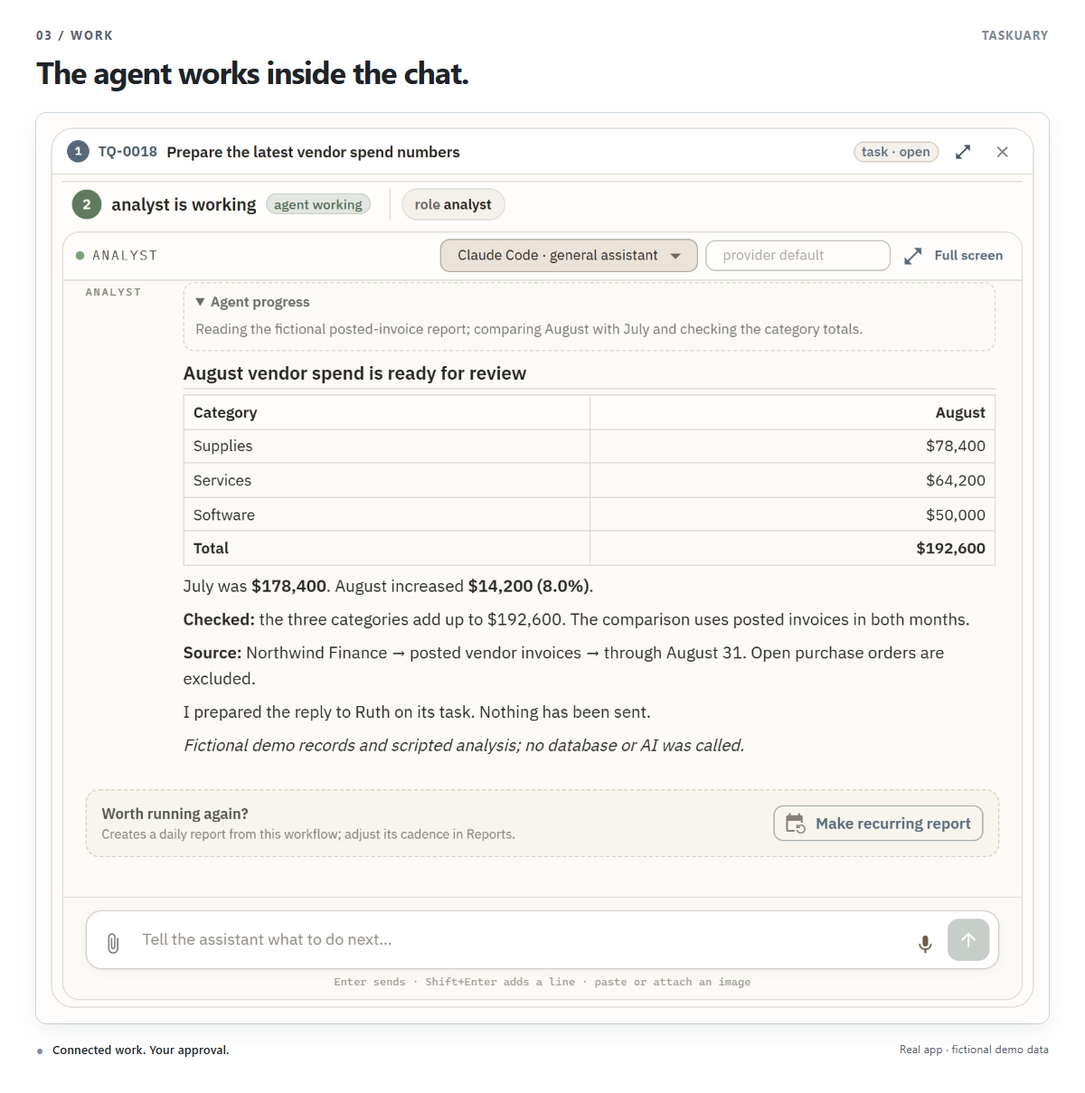
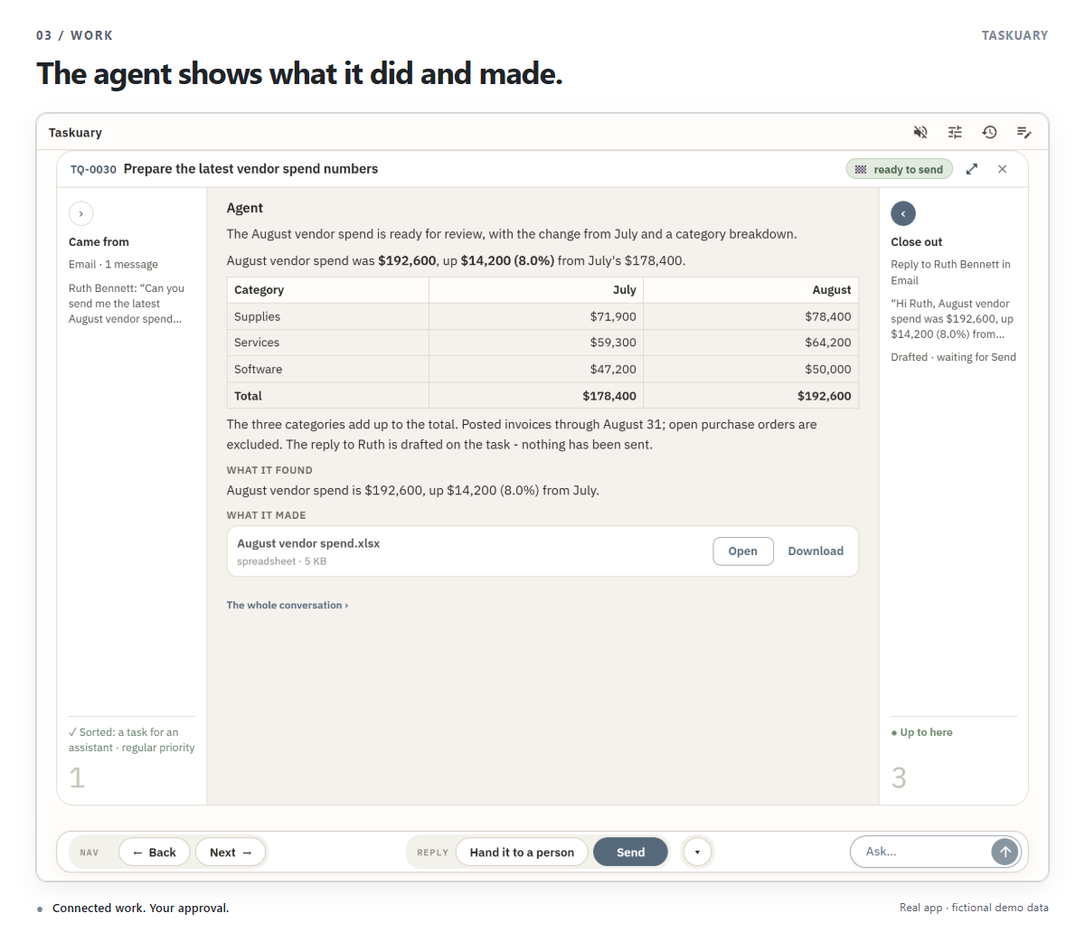
The README's pictures show the task view as it is now: three sections, the Result, Close out, the chat window
The task pictures still showed the old card - one column of steps, Approve & send, Regenerate with AI,
"Where this came from", the agent's chat as the result. They were shot from the guided Vite demo, whose
task stops at "agent waiting on you" and never reaches a finished agent's Result.

- capture-readme-app.mjs shoots 02-05 on the browser harness (the real backend on a scratch demo home,
  outbound sockets blocked). readme_seed.py writes the vendor-spend request into that home, then the
  agent's finished run: its report, the workbook it made, the reply drafted. 02 is the task in its three
  sections with Came from open, 03 the Agent's Result (summary, answer, what it found, What it made),
  04 Close out on the drafted reply with Send, 05 the chat window open over the row.
- Three new key-feature pictures from the same run: 12 an FYI batch folded, 13 a report in a task's three
  sections, 14 the dashboard; both READMEs get a section for them. The FYI picture is the second batch -
  the first names a vendor company that reads like a real one.
- capture-readme.mjs keeps 01, 06-09 and 11, re-shot: the Assistant is "Chat" in the nav now, LEARNED.md
  opens in Settings > Docs (cropped from its title to the words' end), and card() waits for its words
  again after each resize (the Hub reloads behind a spinner). 01's crop drops the header's edge.
- Captions and alt text name today's buttons; ?v=cards becomes ?v=sections on every picture.

diff --git a/website/readme_seed.py b/website/readme_seed.py
@@ -1,0 +1,52 @@
+"""The README's one request, written into a browser harness's demo home (capture-readme-app.mjs): Ruth's ask for the August vendor spend,
+then the analyst's finished run on it - its report, the workbook it left and the reply drafted for the owner. Invented people only.
+python website/readme_seed.py ask            -> prints the new task's id
+python website/readme_seed.py done <task id> -> the agent finished, the workbook made, the reply drafted"""
+import sys
+from pathlib import Path
+
+sys.path.insert(0, str(Path(__file__).resolve().parents[1]))
+from taskuary import config, demo, outputs, terminal
+from taskuary.store import SQLiteStore
+from taskuary.testing import Factory
+
+ASK = ('Can you send me the latest August vendor spend numbers before the operations review? '
+       'Please include the total, the change from July, and a breakdown by category.')
+ROWS = [('Supplies', 78400, 71900), ('Services', 64200, 59300), ('Software', 50000, 47200)]
+ANSWER = ('August vendor spend was **$192,600**, up **$14,200 (8.0%)** from July\'s $178,400.\n\n'
+          '| Category | July | August |\n|---|---:|---:|\n'
+          + ''.join(f'| {c} | ${j:,} | ${a:,} |\n' for c, a, j in ROWS)
+          + '| **Total** | **$178,400** | **$192,600** |\n\n'
+          'The three categories add up to the total. Posted invoices through August 31; open purchase orders are excluded. '
+          'The reply to Ruth is drafted on the task - nothing has been sent.')
+DRAFT = ('Hi Ruth,\n\nAugust vendor spend was $192,600, up $14,200 (8.0%) from July\'s $178,400.\n\n'
+         + ''.join(f'- {c}: ${a:,}\n' for c, a, _ in ROWS)
+         + '\nThe three categories reconcile to the total. These are posted invoices through August 31; open purchase orders are excluded.'
+           '\n\nAlex')
+
+s = SQLiteStore(str(config.home() / 'taskuary.db'))
+f = Factory(s); f.actor = 'triage'
+ruth = demo.PEOPLE[3]
+if sys.argv[1] == 'ask':
+    tid = f.task(title='Prepare the latest vendor spend numbers', status='open', kind='general', source='email',
+                 Summary='Ruth needs the August vendor spend before the 11:30 operations review: the total, the change from July and a category breakdown.')
+    mid = f.message(task_id=tid, subject='Latest vendor spend numbers?', body=ASK, from_name=ruth[0], from_email=ruth[1],
+                    sent_at=f.ago(minutes=25), conversation_id='email:readme-vendor-spend')
+    f.route(mid, tid, 'create', 'a request for current internal numbers: an agent can prepare the analysis and draft the reply for review')
+    print(tid)
+else:
+    tid = int(sys.argv[2])
+    s._exec("UPDATE task SET Status='in_progress', Assignee='agent:general', Tags=? WHERE TaskId=?", (terminal.SAVED, tid))
+    s.add_transcript(tid, f'readme-{tid}', 'Reading the posted-invoice report for July and August.\nChecking the category totals against the ledger.',
+                     agent='general', cwd=str(config.home()), brain='claude')
+    s.add_comment(tid, 'general', 'agent', 'AGENT REPORT\nDetermination: August vendor spend is $192,600, up $14,200 (8.0%) from July.\n'
+                  'Actions: Read the posted vendor invoices for July and August; totalled them by category; checked the categories add up.\n'
+                  'Summary: The August vendor spend is ready for review, with the change from July and a category breakdown.\n\n'
+                  'LAST MESSAGE\n' + ANSWER)
+    out = outputs.folder(tid); out.mkdir(parents=True, exist_ok=True)
+    from openpyxl import Workbook
+    wb = Workbook(); ws = wb.active; ws.title = 'August'
+    for r in (['Category', 'July', 'August'], *[[c, j, a] for c, a, j in ROWS], ['Total', 178400, 192600]): ws.append(r)
+    wb.save(out / 'August vendor spend.xlsx')
+    mid = s.list_messages(tid)[0]['MessageId']
+    f.review(tid, mid, draft=DRAFT, reason='needs a reply: Ruth asks for the numbers')

diff --git a/README.md b/README.md
@@ -42,39 +42,43 @@ one card: what changed since last night, what was learned, the morning digest, y
 what waits in each section - so you never open each system in turn. A goal is a task whose steps
 are tasks: triage opens one for an open-ended ask, and files later mail under the step it serves.
 
-![The work rail sorting today's items into Urgent, On you, Agents working, Reports, Advisor ideas, and FYI, beside the opening card: agents that finished and a report that ran since last night, the memory and morning digest lines, today's meetings, and what waits in each section.](https://raw.githubusercontent.com/ldbumble/taskuary/master/docs/readme/01-timeline-sources-and-times.png?v=cards)
+![The work rail sorting today's items into Tasks, Reports, and FYI, beside the opening card: agents that finished and a report that ran since last night, the memory and morning digest lines, today's meetings, and what waits in each section.](https://raw.githubusercontent.com/ldbumble/taskuary/master/docs/readme/01-timeline-sources-and-times.png?v=sections)
 
 ### 2. Let the Assistant walk you through it
 
 Choose **Walk me through my tasks**. The Assistant puts one item on the table at a time, as the
-same task card you would open yourself, with the next actions under it: **Next**, **Write reply**,
-**Send to agent**, **Mark done**. The buttons always do the same thing; the chat line is for everything else,
-and the Assistant already has the message, the thread, and your past decisions to answer from.
+same task card you would open yourself, with the next actions in one row under it: **Next**, **Reply**,
+**Hand it to a person**, and the rest under ▾. The buttons always do the same thing; for everything else,
+ask - the chat opens as a window over the row, and the Assistant already has the message, the thread,
+and your past decisions to answer from.
 
-![The Assistant bringing Ruth's request into the chat as task TQ-0018 - what needs doing, its agent and close-out steps - with Next, Write reply, Send to agent, and Mark done under it.](https://raw.githubusercontent.com/ldbumble/taskuary/master/docs/readme/05-assistant.png?v=cards)
+![Ruth's request on the table with the chat window open over the action row: asked what is on the list, the Assistant answers beside the task without moving it.](https://raw.githubusercontent.com/ldbumble/taskuary/master/docs/readme/05-assistant.png?v=sections)
 
 Assistant look-ups clamp result limits to a safe range and use their default when a limit is invalid.
 
 ### 3. Every request becomes a task with its whole story
 
-Open any item to see how it got here: the message, what triage decided and why, which agent
-has it, and where the reply stands.
+Every task reads left to right in three sections: **Came from** (the message, what triage made of it
+and why, the ask), **Agent**, and **Close out**. The section the task is up to opens; the other two fold
+to slim columns beside it that still say where they stand.
 
-![Ruth's request on its task: the message, the triage decision, the agent, and the reply still to write.](https://raw.githubusercontent.com/ldbumble/taskuary/master/docs/readme/02-task.png?v=cards)
+![Ruth's request as a task in three sections: Came from open - the email, what triage made of it, the ask - with Agent (not started) and Close out (not drafted yet) folded beside it.](https://raw.githubusercontent.com/ldbumble/taskuary/master/docs/readme/02-task.png?v=sections)
 
-### 4. The agent works inside the chat
+### 4. The agent shows what it did
 
-**Send to agent** and it works in the same card. Here the analyst prepares the numbers, checks
-that the categories add up, names its source, and drafts the reply. Nothing is sent.
+Open the Agent section and choose **Send to agent**; the agent works there. When it finishes, that section rests on its
+Result: what it did, its answer, what it found, and **What it made** - each file with Open and Download.
+The whole conversation is one link under it. Here the agent prepares the numbers, checks that the
+categories add up, saves a workbook, and drafts the reply. Nothing is sent.
 
-![The analyst's finished vendor spend analysis inside the chat, with category totals, the change from July, and its source.](https://raw.githubusercontent.com/ldbumble/taskuary/master/docs/readme/03-agent.png?v=cards)
+![The agent's Result on Ruth's task: a one-line summary, the July and August totals by category, what it found, and the workbook it made with Open and Download.](https://raw.githubusercontent.com/ldbumble/taskuary/master/docs/readme/03-agent.png?v=sections)
 
 ### 5. The last word is yours
 
-The prepared reply waits on the task, beside the request that started it. Read it, edit it,
-and choose **Approve & send** when it is ready.
+The prepared reply waits in **Close out**, addressed to Ruth, with Came from and the agent's Result
+folded beside it. Read it, edit it, and choose **Send** when it is ready - or Redraft.
 
-![The drafted reply to Ruth waiting on its task, with Approve & send, Mark done, and Regenerate with AI.](https://raw.githubusercontent.com/ldbumble/taskuary/master/docs/readme/04-review.png?v=cards)
+![Close out open on the reply drafted to Ruth, with To, Cc, the editable draft, Send and Redraft, beside the folded Came from and Agent sections.](https://raw.githubusercontent.com/ldbumble/taskuary/master/docs/readme/04-review.png?v=sections)
 
 ### 6. Start your day before it gets busy
 
@@ -82,9 +86,22 @@ Each morning the Assistant opens on what changed since last night, what it learn
 and what waits in each section - and the morning digest unfolds in place, so it is never stale by the
 time you reach it. Ruth's request has a clear deadline: the 11:30 operations review.
 
-![An animated close-up of the morning: the opening card, then its morning digest unfolding - who wants what, what is in flight, and today's meetings.](https://raw.githubusercontent.com/ldbumble/taskuary/master/docs/readme/06-morning.gif?v=cards)
+![An animated close-up of the morning: the opening card, then its morning digest unfolding - who wants what, what is in flight, and today's meetings.](https://raw.githubusercontent.com/ldbumble/taskuary/master/docs/readme/06-morning.gif?v=sections)
 
 ## Key features
+
+### Reports, dashboards, and FYI open like work
+
+A report opens in the same three sections as a task, the report itself in the middle - its chart,
+its table, the files it attached - with the same row under it. Dashboards land beside the reports.
+What needs nothing from you is batched: one FYI card holds every message of the batch, each folded to
+who, where, and its line, and **All read, next** moves on.
+
+![A report in a task's three sections: Headcount by site, nightly, with its bar chart, table, and attached files, and the row of actions under it.](https://raw.githubusercontent.com/ldbumble/taskuary/master/docs/readme/13-report.png?v=sections)
+
+![The Taskuary at a glance dashboard: what came in, new tasks, open now, reply time, how far items got, and agent sessions.](https://raw.githubusercontent.com/ldbumble/taskuary/master/docs/readme/14-dashboard.png?v=sections)
+
+![An FYI batch: six messages that need nothing, each folded to its sender, channel, subject, and first line, with All read, next under them.](https://raw.githubusercontent.com/ldbumble/taskuary/master/docs/readme/12-fyi.png?v=sections)
 
 ### Use your coding CLI
 
@@ -96,21 +113,21 @@ For Qwen Code, see the [setup and compatibility guide](docs/qwen-code.md).
 Use DeepSeek, GLM, or MiniMax through OpenCode, or connect Moonshot's Kimi Code:
 [setup steps and supported roles](docs/chinese-coding-clis.md).
 
-![AI CLI connections for Claude, Qwen, OpenCode with DeepSeek, and Kimi Code.](https://raw.githubusercontent.com/ldbumble/taskuary/master/docs/readme/07-coding-clis-chinese.png?v=cards)
+![AI CLI connections for Claude, Qwen, OpenCode with DeepSeek, and Kimi Code.](https://raw.githubusercontent.com/ldbumble/taskuary/master/docs/readme/07-coding-clis-chinese.png?v=sections)
 
 ### A shared Hub for what agents learn
 
 Keep discoveries, decisions, and useful warnings by topic. Agents can find what earlier work
 uncovered, discuss it, and correct it instead of starting from scratch.
 
-![A discovery in the Hub, with the discussion two agents had under it.](https://raw.githubusercontent.com/ldbumble/taskuary/master/docs/readme/08-hub.png?v=cards)
+![A discovery in the Hub, with the discussion two agents had under it.](https://raw.githubusercontent.com/ldbumble/taskuary/master/docs/readme/08-hub.png?v=sections)
 
 ### Agents leave notes for each other
 
 The Board's **Live handoffs** show what agents are working on, what is blocked, and what is ready.
 An agent leaves a note; the next one reads it before picking up the work.
 
-![Live handoff notes on the agent wall, showing progress, shared context, and who has read each note.](https://raw.githubusercontent.com/ldbumble/taskuary/master/docs/readme/09-handoffs.png?v=cards)
+![Live handoff notes on the agent wall, showing progress, shared context, and who has read each note.](https://raw.githubusercontent.com/ldbumble/taskuary/master/docs/readme/09-handoffs.png?v=sections)
 
 ### Memory that learns how you work
 
@@ -133,7 +150,7 @@ answer, whether a chase is needed, who on copy moves them - and a thread gone qu
 person's own day is *slipped*, on your rail under Tasks, with Chase, Let it go, They answered elsewhere
 and Remind me under it. See [The Advisor](https://taskuary.com/docs/advisor).
 
-![LEARNED.md open in the document editor, with evidence-backed preferences, hypotheses still being tested, and proposed rules awaiting the owner.](https://raw.githubusercontent.com/ldbumble/taskuary/master/docs/readme/11-learned-memory.png?v=cards)
+![LEARNED.md open in the document editor, with evidence-backed preferences, hypotheses still being tested, and proposed rules awaiting the owner.](https://raw.githubusercontent.com/ldbumble/taskuary/master/docs/readme/11-learned-memory.png?v=sections)
 
 <details>
 <summary>Technical details: how LEARNED.md becomes memory</summary>

diff --git a/README.zh-CN.md b/README.zh-CN.md
@@ -41,46 +41,59 @@ Qwen Code 使用哪个云端或本地模型，由你配置。见[使用 Qwen Cod
 ### 1. 所有工作汇集到一处
 
 邮件、聊天、工单、提醒和报表都进入同一条工作栏，并按需要处理的方式分组：
-**Urgent**、**Tasks**（所有未完成的任务，代理正在处理的那一项图标上有旋转的圆环）、**For later**、**Reports**、Advisor 的建议，以及 **FYI**。旁边是一天的开场卡片：昨晚以来的变化、
+**Tasks**（所有未完成的任务，代理正在处理的那一项图标上有旋转的圆环）、**For later**、**Reports**、Advisor 的建议，以及 **FYI**。旁边是一天的开场卡片：昨晚以来的变化、
 学到的东西、早间摘要、今天的会议，以及每个分组里在等你的事，不用逐个打开各个系统。
 
-![工作栏把今天的事项分组，旁边是开场卡片：昨晚以来完成的代理和运行的报表、记忆与早间摘要、今天的会议，以及每个分组里在等你的事。](https://raw.githubusercontent.com/ldbumble/taskuary/master/docs/readme/01-timeline-sources-and-times.png?v=cards)
+![工作栏把今天的事项分组，旁边是开场卡片：昨晚以来完成的代理和运行的报表、记忆与早间摘要、今天的会议，以及每个分组里在等你的事。](https://raw.githubusercontent.com/ldbumble/taskuary/master/docs/readme/01-timeline-sources-and-times.png?v=sections)
 
 ### 2. 让助手带你逐项处理
 
 选择 **Walk me through my tasks**。助手每次把一件事带到对话里，形式就是你自己打开时看到的同一张任务卡片，
-下面是接下来的操作：**Next**、**Write reply**、**Send to agent**、**Mark done**。按钮每次都做同样的事；
-其他需求直接在对话框里说，助手已经掌握这条消息、整个线程以及你过去的决定。
+下面一行是接下来的操作：**Next**、**Reply**、**Hand it to a person**，其余在 ▾ 里。按钮每次都做同样的事；
+其他需求直接提问，对话会作为一个窗口浮在操作行上方，助手已经掌握这条消息、整个线程以及你过去的决定。
 
-![助手把 Ruth 的请求作为任务 TQ-0018 带入对话，显示要做的事、智能体和收尾步骤，下面是 Next、Write reply、Send to agent 和 Mark done。](https://raw.githubusercontent.com/ldbumble/taskuary/master/docs/readme/05-assistant.png?v=cards)
+![Ruth 的请求放在桌面上，对话窗口浮在操作行上方：问到今天的清单，助手在任务旁边回答，任务本身不动。](https://raw.githubusercontent.com/ldbumble/taskuary/master/docs/readme/05-assistant.png?v=sections)
 
 ### 3. 每个请求都成为带有完整经过的任务
 
-打开任何事项，都能看到它的来龙去脉：原始消息、分诊的结论和原因、由哪个智能体处理，以及回复进行到哪一步。
+每个任务从左到右分为三部分：**Came from**（原始消息、分诊的结论和原因、要做的事）、**Agent** 和 **Close out**。
+任务进行到哪一部分，就展开哪一部分；另外两部分收成窄栏放在旁边，仍然显示各自的状态。
 
-![Ruth 的请求对应的任务：原始消息、分诊结论、智能体，以及尚未撰写的回复。](https://raw.githubusercontent.com/ldbumble/taskuary/master/docs/readme/02-task.png?v=cards)
+![Ruth 的请求作为任务分成三部分：展开的 Came from 显示邮件、分诊结论和要做的事，旁边收起的 Agent（尚未开始）和 Close out（尚未起草）。](https://raw.githubusercontent.com/ldbumble/taskuary/master/docs/readme/02-task.png?v=sections)
 
-### 4. 智能体在对话里工作
+### 4. 智能体展示它做了什么
 
-点击 **Send to agent**，智能体就在同一张卡片里工作。这里的分析智能体整理支出数据、核对分类合计、
-注明数据来源，并准备回复草稿。任何内容都不会自动发出。
+打开 Agent 部分并点击 **Send to agent**，智能体就在那里工作。完成后，这一部分显示它的结果：做了什么、它的答案、
+发现了什么，以及 **What it made**——每个文件都可以打开或下载，完整对话只是下面的一个链接。这里的智能体整理支出数据、
+核对分类合计、保存一个工作簿，并准备回复草稿。任何内容都不会自动发出。
 
-![分析智能体在对话中完成的供应商支出分析，包括分类合计、与七月的变化和数据来源。](https://raw.githubusercontent.com/ldbumble/taskuary/master/docs/readme/03-agent.png?v=cards)
+![智能体在 Ruth 的任务上的结果：一句话总结、七月和八月按分类的合计、它的发现，以及可以打开和下载的工作簿。](https://raw.githubusercontent.com/ldbumble/taskuary/master/docs/readme/03-agent.png?v=sections)
 
 ### 5. 最后由你决定
 
-准备好的回复放在任务上，旁边就是最初的请求。阅读、修改，确认无误后点击 **Approve & send**。
+准备好的回复放在 **Close out** 里，收件人是 Ruth，旁边收起的是 Came from 和智能体的结果。阅读、修改，确认无误后点击 **Send**，或者 Redraft。
 
-![给 Ruth 的回复草稿在任务上等待审核，并提供 Approve & send、Mark done 和 Regenerate with AI。](https://raw.githubusercontent.com/ldbumble/taskuary/master/docs/readme/04-review.png?v=cards)
+![Close out 展开在给 Ruth 的回复草稿上：收件人、抄送、可编辑的草稿、Send 和 Redraft，旁边是收起的 Came from 和 Agent。](https://raw.githubusercontent.com/ldbumble/taskuary/master/docs/readme/04-review.png?v=sections)
 
 ### 6. 在忙起来之前开始一天
 
 每天早上，助手先说明昨晚以来的变化、学到的东西、今天的会议，以及每个分组里在等你的事；早间摘要直接在卡片里展开，
 看到时不会过时。Ruth 的请求有明确的期限：11:30 的运营会议。
 
-![早间画面的动画特写：开场卡片，以及在卡片里展开的早间摘要。](https://raw.githubusercontent.com/ldbumble/taskuary/master/docs/readme/06-morning.gif?v=cards)
+![早间画面的动画特写：开场卡片，以及在卡片里展开的早间摘要。](https://raw.githubusercontent.com/ldbumble/taskuary/master/docs/readme/06-morning.gif?v=sections)
 
 ## 核心功能
+
+### 报表、仪表板和 FYI 也像工作一样打开
+
+报表和任务一样分成三部分打开，中间是报表本身——图表、表格和附件——下面是同一行操作。仪表板就放在报表旁边。
+不需要你处理的消息会成批出现：一张 FYI 卡片装下整批消息，每条收成发件人、渠道和一行内容，点击 **All read, next** 继续。
+
+![按任务三部分打开的报表：每晚各站点人数，含柱状图、表格和附件，下面是操作行。](https://raw.githubusercontent.com/ldbumble/taskuary/master/docs/readme/13-report.png?v=sections)
+
+![Taskuary at a glance 仪表板：收到多少、新任务、当前未完成、回复时间、事项进展和智能体会话。](https://raw.githubusercontent.com/ldbumble/taskuary/master/docs/readme/14-dashboard.png?v=sections)
+
+![一批 FYI：六条不需要处理的消息，每条收成发件人、渠道、主题和第一行，下面是 All read, next。](https://raw.githubusercontent.com/ldbumble/taskuary/master/docs/readme/12-fyi.png?v=sections)
 
 ### 使用你选择的编程 CLI
 
@@ -93,21 +106,21 @@ Qwen Code 使用哪个云端或本地模型，由你配置。见[使用 Qwen Cod
 这两个预设用于执行任务；消息分拣和只读报告请选择 Qwen Code、Ollama 或 API 服务。
 详见[安装步骤和验证范围（英文）](docs/chinese-coding-clis.md)。
 
-![Claude、Qwen、OpenCode（支持 DeepSeek）和 Kimi Code 的连接卡片。](https://raw.githubusercontent.com/ldbumble/taskuary/master/docs/readme/07-coding-clis-chinese.png?v=cards)
+![Claude、Qwen、OpenCode（支持 DeepSeek）和 Kimi Code 的连接卡片。](https://raw.githubusercontent.com/ldbumble/taskuary/master/docs/readme/07-coding-clis-chinese.png?v=sections)
 
 ### 用 Hub 保留共享知识
 
 按主题保存发现、决定和有用的提醒。智能体可以查阅前面的工作、补充讨论，
 也可以根据新证据纠正结论，减少重复摸索。
 
-![Hub 中按主题组织的共享发现，以及智能体之间的讨论。](https://raw.githubusercontent.com/ldbumble/taskuary/master/docs/readme/08-hub.png?v=cards)
+![Hub 中按主题组织的共享发现，以及智能体之间的讨论。](https://raw.githubusercontent.com/ldbumble/taskuary/master/docs/readme/08-hub.png?v=sections)
 
 ### 智能体之间可以交接留言
 
 Board 的 **Live handoffs** 展示当前进展、阻碍和待接手事项。
 一个智能体留下说明，下一个接手时就能读到上下文；已读标记显示谁看过这条留言。
 
-![智能体的交接留言，包括进展、共享上下文和已读标记。](https://raw.githubusercontent.com/ldbumble/taskuary/master/docs/readme/09-handoffs.png?v=cards)
+![智能体的交接留言，包括进展、共享上下文和已读标记。](https://raw.githubusercontent.com/ldbumble/taskuary/master/docs/readme/09-handoffs.png?v=sections)
 
 ### 从你的决定中学习
 
@@ -118,7 +131,7 @@ Board 的 **Live handoffs** 展示当前进展、阻碍和待接手事项。
 打开 **Docs → LEARNED.md**，可以阅读、修改或删除这些记忆。
 你在 `SOUL.md` 中写下的指令始终优先。
 
-![LEARNED.md 编辑器中可查看和修改的偏好、证据、待验证假设和待批准规则。](https://raw.githubusercontent.com/ldbumble/taskuary/master/docs/readme/11-learned-memory.png?v=cards)
+![LEARNED.md 编辑器中可查看和修改的偏好、证据、待验证假设和待批准规则。](https://raw.githubusercontent.com/ldbumble/taskuary/master/docs/readme/11-learned-memory.png?v=sections)
 
 <details>
 <summary>技术细节：LEARNED.md 如何形成记忆</summary>

diff --git a/docs/readme/README.md b/docs/readme/README.md
@@ -15,21 +15,29 @@ From the repository root, with frontend dependencies installed, Node 22+, a loca
 Chromium browser, and FFmpeg (or Python's `imageio_ffmpeg`):
 
 ```powershell
-npm exec --yes --package=node@22 -- node website/capture-readme.mjs
+npm exec --yes --package=node@22 -- node website/capture-readme.mjs --extras
+$env:TASKUARY_BROWSER_PLAIN_ENV='1'   # a local Windows run; CI never sets it
+npm exec --yes --package=node@22 -- node website/capture-readme-app.mjs
 npm exec --yes --package=node@22 -- node website/render-readme.mjs
 ```
+
+The task-view pictures - 02 the task in its three sections, 03 the agent's Result, 04 Close out on the drafted reply,
+05 the chat window over the row, 12 an FYI batch, 13 a report, 14 the dashboard - come from `capture-readme-app.mjs`. It
+starts the browser harness (`website/browser/harness.mjs`): the real backend on a scratch home seeded with the demo world,
+outbound sockets blocked. `website/readme_seed.py` writes Ruth's request into that home, then the agent's finished run on
+it - its report, the workbook it made, the reply drafted. Each is the Taskuary pane at 1440x900, the rail left out. To
+frame only those, add `--app-only` to the render.
 
 The capture starts and closes its own local Vite server and browser. It uses demo
 mode, with a capture-only fixture for the calendar, morning digest, current
 Timeline response format, CLI cards, and Hub comments. No live account is read,
 connected, or changed. The fixture clock is September 3, 2026, at 10:24 local time.
 
-Raw screenshots and animation frames stay in ignored `.codex-tmp/readme/`.
+Raw screenshots and animation frames stay in ignored `.codex-tmp/readme/`. The README links carry a `?v=` cache-buster; change it when the pictures change.
 Framing lives in `website/render-readme.mjs`: a plain white page with neutral grey type, so the only colour is the
 app's own. Most pictures are cropped to a whole card by `card()` in the capture (the smallest box holding given words,
 the window grown until none of it is scrolled away, the rest of the chat hidden), so no frame cuts a card's edge;
-the rest keep a clip in the shot list. Screenshots are captured at double resolution and framed at 1200 pixels wide. The capture widens the Timeline
-rail, narrows the Review column, and expands its reply editor for readability.
+the rest keep a clip in the shot list. Screenshots are captured at double resolution and framed at 1200 pixels wide.
 Product source files and the deployed demo are unchanged.
 
 The first image shows readable source labels above the original timestamps for this image only;
@@ -40,7 +48,7 @@ The LEARNED.md image uses authored example lessons in the real document editor.
 To recapture and frame just those two images, add `--memory-update` to both commands.
 For just the Timeline image, use `--timeline-only` instead.
 For just the CLI connections image (including Qwen Code), use `--cli-only`.
-For the four key-feature images (CLI, Hub, handoffs, LEARNED.md), capture with `--extras-only` (all of them: `--extras`).
+For the four key-feature images (CLI, Hub, handoffs, LEARNED.md), capture and render with `--extras-only` (all of them: `--extras`).
 For just the first image (the opening card in the full demo, on a fresh chat), use `--home-only` with both commands.
 
 Review every final image at README width after regenerating: titles, amounts,
